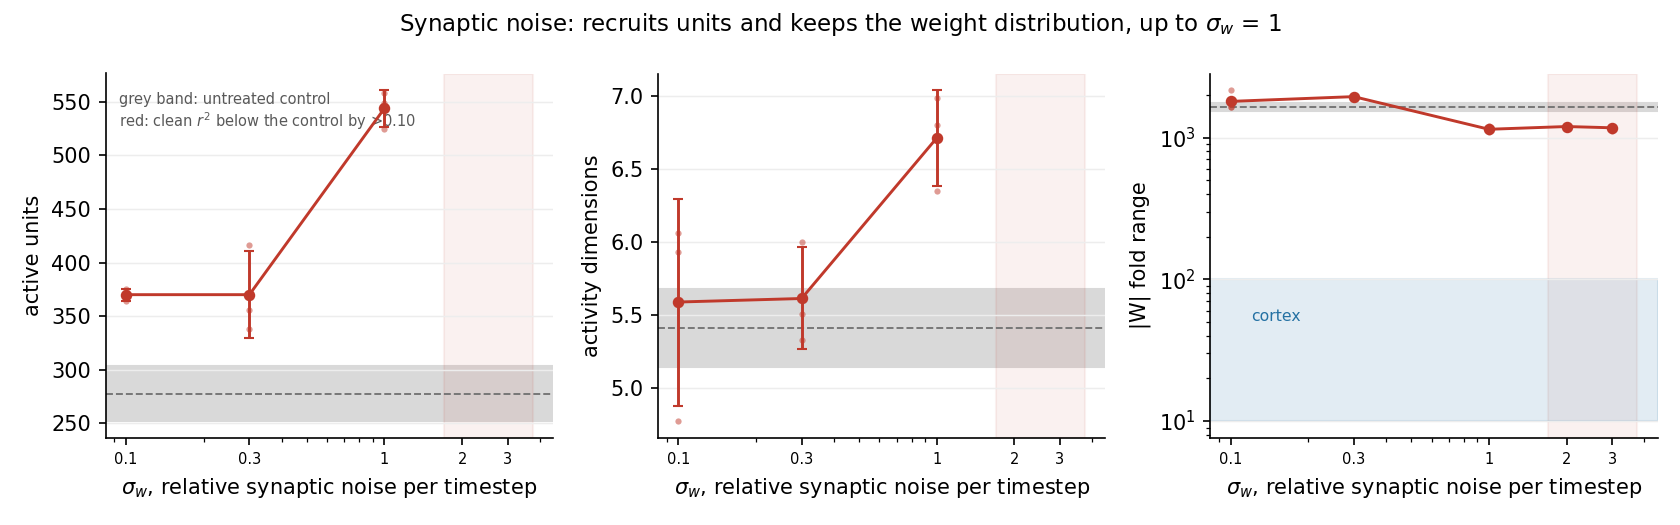
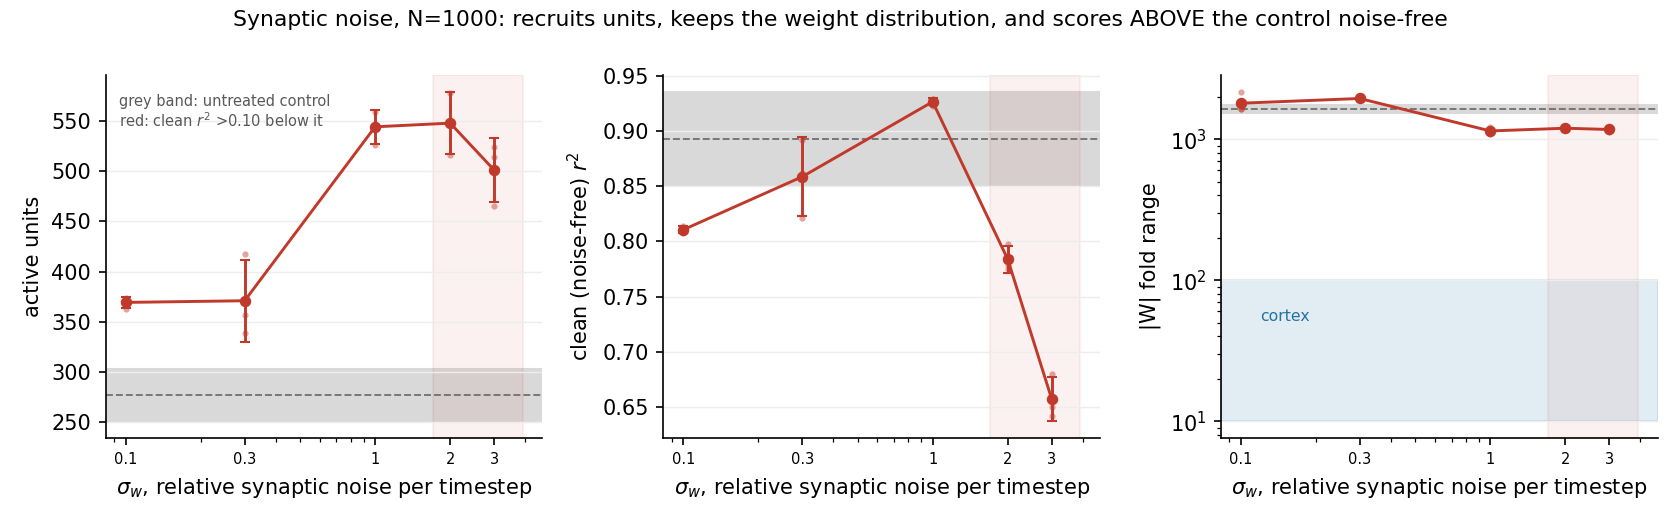
Trajectory: synaptic noise transfers across size and task, rescale does not
The 11:25 entry reported both at N=1000 on the flip-flop and said so; the transfer tests have
landed and separate them. Synaptic noise recruits 1.31-1.97x at N=500/1000/2000, adds dimensions
at all three, and works on CDDM (1.54x, though both CDDM cells are thin after the r2 gate).
Rescale at target 10 recruits at N=500 but LOSES dimensions there (4.37 against a control's
5.23), so its gain is a property of N=1000 rather than of the rule.

The clean-r2 column changes the earlier reading: an untreated network scores 5-8 points worse
once its training noise is removed, and a sigma_w network does not move at all. The 1.7-point
cost reported at 11:25 was an artifact of scoring two networks under their own training noise.

Two failures recorded rather than quietly fixed. The N=4000 OOM: the launcher predicted the wall
and then asked for host RAM instead of a GPU with more memory. And the sync ran 50x slow for
nearly four hours because macOS ships openrsync as /usr/bin/rsync.

diff --git a/docs/project_trajectory.md b/docs/project_trajectory.md
@@ -13149,3 +13149,70 @@ Built by `f2_remedies_cache.py` on Della into `data/fig_paper_F2_cache.npz`, dra
 `fig_paper_F2.py`. `check_labels_clear` asserts that no label overlaps another label or any drawn
 datum, testing the ink of each curve rather than its bounding box; it caught three collisions the
 moment the sixth arm went in.
+
+## 2026-09-30 16:40 — synaptic noise transfers; rescale does not; and the controls need noise to work
+
+The 11:25 entry reported both interventions at N = 1000 on the flip-flop only, and said so. The
+transfer tests have landed, and they separate the two. **Every r2 below is the CLEAN (noise-free)
+score**, which is the only one comparable across arms — the stored score is a single noisy forward
+pass and includes the synaptic noise, so across noise levels it compares different regimes.
+
+![size transfer](../img/internal_figures/fig_size_transfer.png)
+
+| N | control active | + synaptic noise | ratio | control dims | + noise | control clean r2 | + noise |
+|---|---|---|---|---|---|---|---|
+| 500 | 220 | 375 | 1.70x | 5.24 | 7.14 | 0.771 | **0.907** |
+| 1000 | 277 | 545 | 1.97x | 5.59 | 6.73 | 0.895 | **0.928** |
+| 2000 | 457 | 600 | 1.31x | 4.32 | 6.33 | 0.864 | **0.926** |
+
+**Synaptic noise recruits at every size, adds dimensions at every size, and beats the control on
+clean r2 at every size.** The recruitment ratio falls with N (1.70, 1.97, 1.31) and the dimension
+gain does not (+1.9, +1.1, +2.0).
+
+**The r2 column is the surprise and it is not a detail.** An untreated network scores 0.946 noisy
+and 0.895 clean at N = 1000 — it is 5 points worse when its training noise is removed, and 8 points
+worse at N = 2000. A sigma_w = 1 network does not move at all (0.9277 noisy, 0.9282 clean). The
+control has learned to use the noise it trains with; the synaptic-noise network has learned to work
+without it. So the 1.7-point "cost" the 11:25 entry reported was an artifact of scoring two networks
+under their own training noise, and read cleanly the intervention is **free or better at every size
+tested**.
+
+**It transfers across TASK as well.** CDDM at N = 1000, 100,000 iterations: 400 active units against
+the control's 259 (1.54x) and 2.28 dimensions against 1.96. The clean r2 goes the other way here —
+0.928 against the control's 0.972 — so on CDDM it does cost something. Both CDDM cells are thin: the
+r2 gate rejected two of three control seeds and one of three treated, leaving n = 1 and n = 2, so
+this is a direction, not a measurement.
+
+**Rescale does not transfer down.** At target 10, N = 500: 330 active against 220 (1.50x), but
+dimensions FALL to 4.37 from the control's 5.23 and clean r2 falls to 0.713 from 0.769. At N = 1000
+the same setting gives 7.20 dimensions against 5.51. So the dimensionality gain that made target 10
+worth reporting is a property of N = 1000, not of the rule. Its participation spread at N = 500 is
+9,023 against the control's 125,437 — a 14-fold compression, worse than anything at N = 1000.
+
+![target ladder](../img/internal_figures/fig_target_ladder.png)
+![synaptic noise](../img/internal_figures/fig_synaptic_noise.png)
+
+The target ladder is now at n = 4 throughout and the peak holds: 5.86, 6.45, **7.25**, 6.99, 6.17,
+6.62 dimensions at targets 6, 8, 10, 14, 20, 30.
+
+**Where this leaves the two.** Synaptic noise recruits 1.3-2.0x across a four-fold size range and on
+a second task, adds dimensions everywhere, keeps the weight distribution inside the control's range
+(1,145x against 1,643x), and costs nothing on the only performance measure that compares arms
+fairly. Rescale recruits, works at one size, compresses the participation distribution 3-14x, and
+spans 91 million-fold in |W| at its best target. **One of these belongs in the paper.**
+
+### Two failures worth recording
+
+**The N = 4000 synaptic-noise cells OOMed, and the launcher's own memory warning did not prevent
+it.** The header predicted the wall correctly — autograd holds one N x N tensor per timestep, 19.2
+GB at N = 4000 over T = 300 — and then asked for it with `--mem-per-gpu=80G`, which is HOST memory.
+The card was still a 40 GB A100 and two of three tasks died in 17 seconds. Della tags its 80 GB
+nodes with a `gpu80` feature; the third task landed on one by chance and ran. Resubmitted with
+`--constraint=gpu80`. Predicting a failure mode is not the same as guarding against it.
+
+**The cluster sync ran at 0.3 MB/s for nearly four hours.** macOS ships `openrsync` (protocol 29)
+as `/usr/bin/rsync`, and it moved about 1 GB of a 112 GB backlog in 3h43m while plain `scp` of a
+100 MB file ran at 12.4 MB/s on the same link. Installing GNU rsync 3.5.1 took it to 15.3 MB/s, a
+50-fold difference. It also silently rejects `--info=progress2`, which killed an earlier attempt in
+seconds — reported at the time as a running sync that was not running.
+
